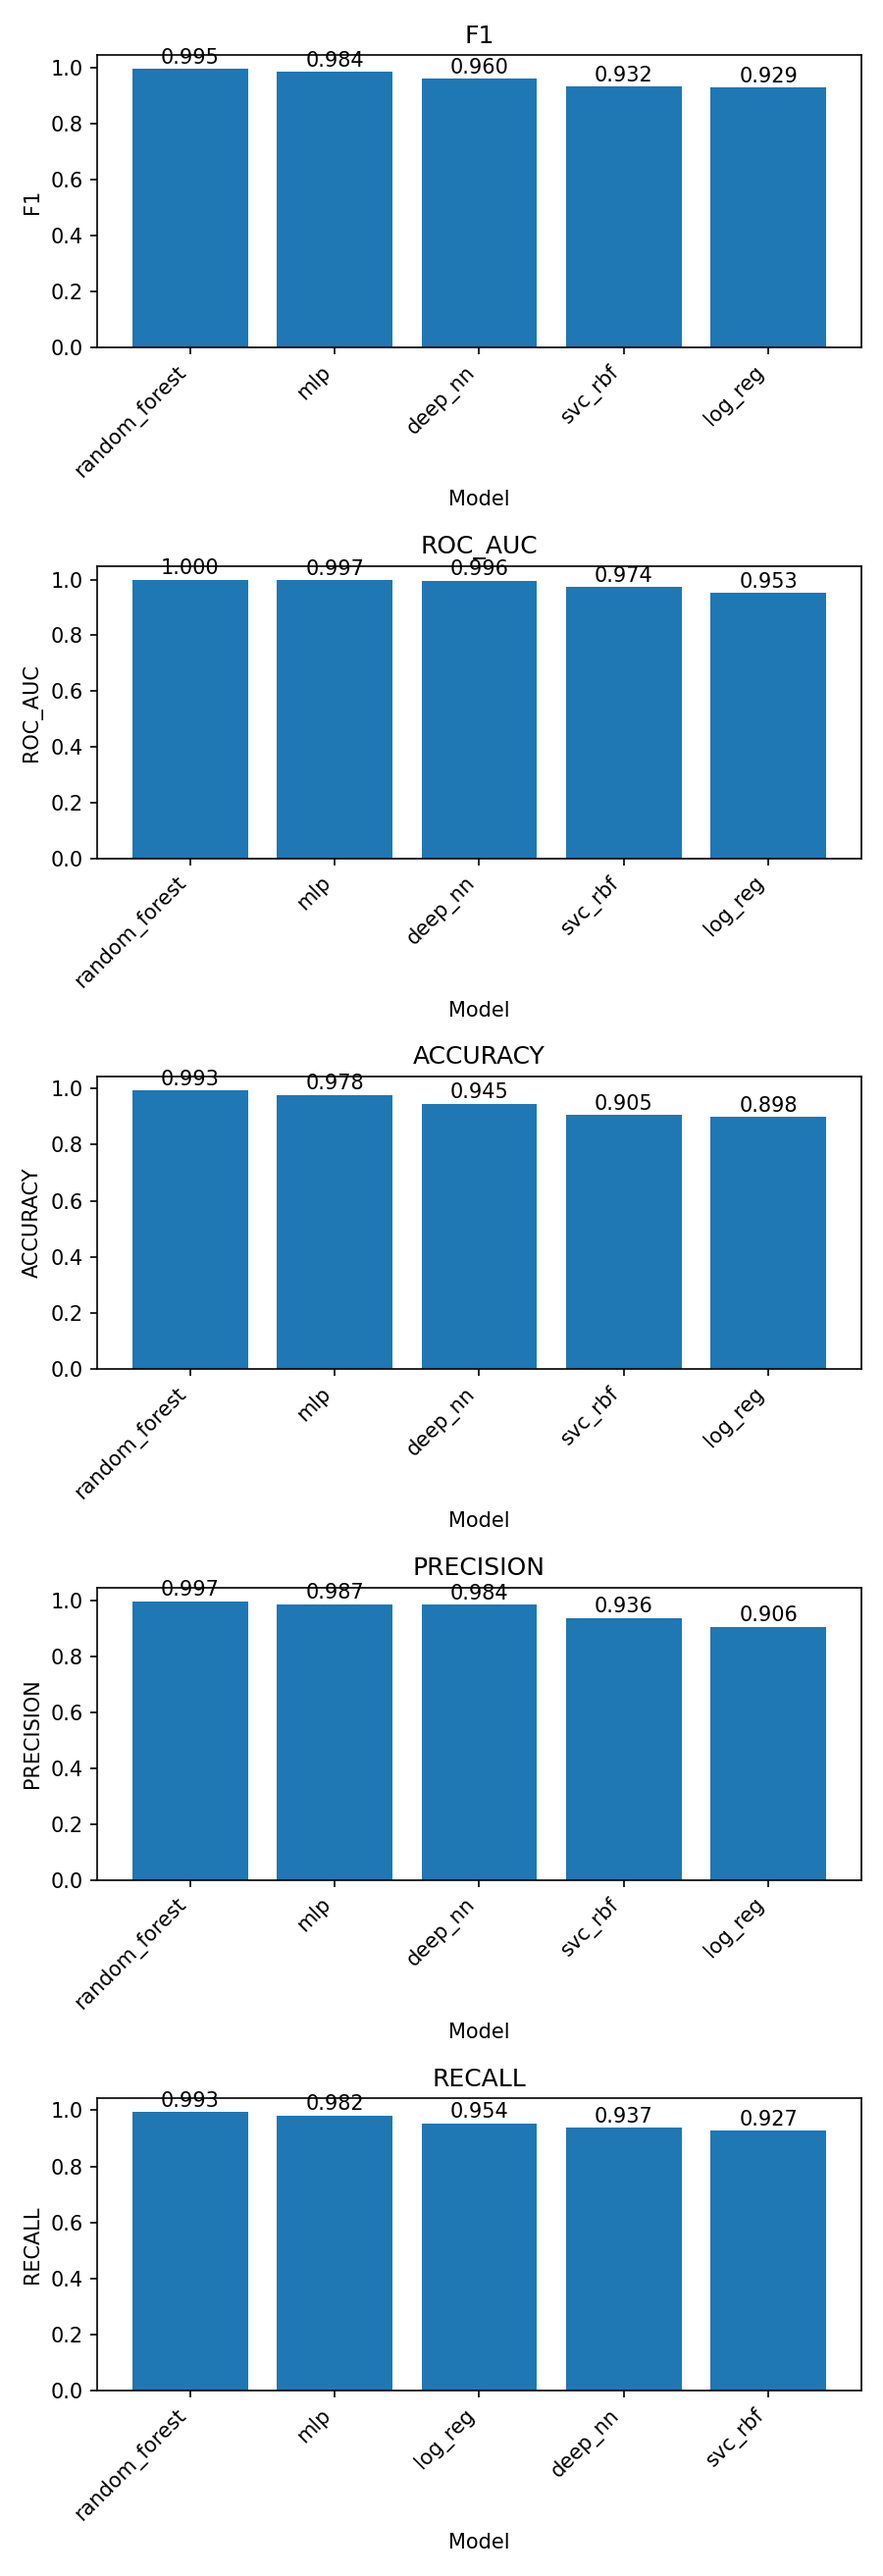
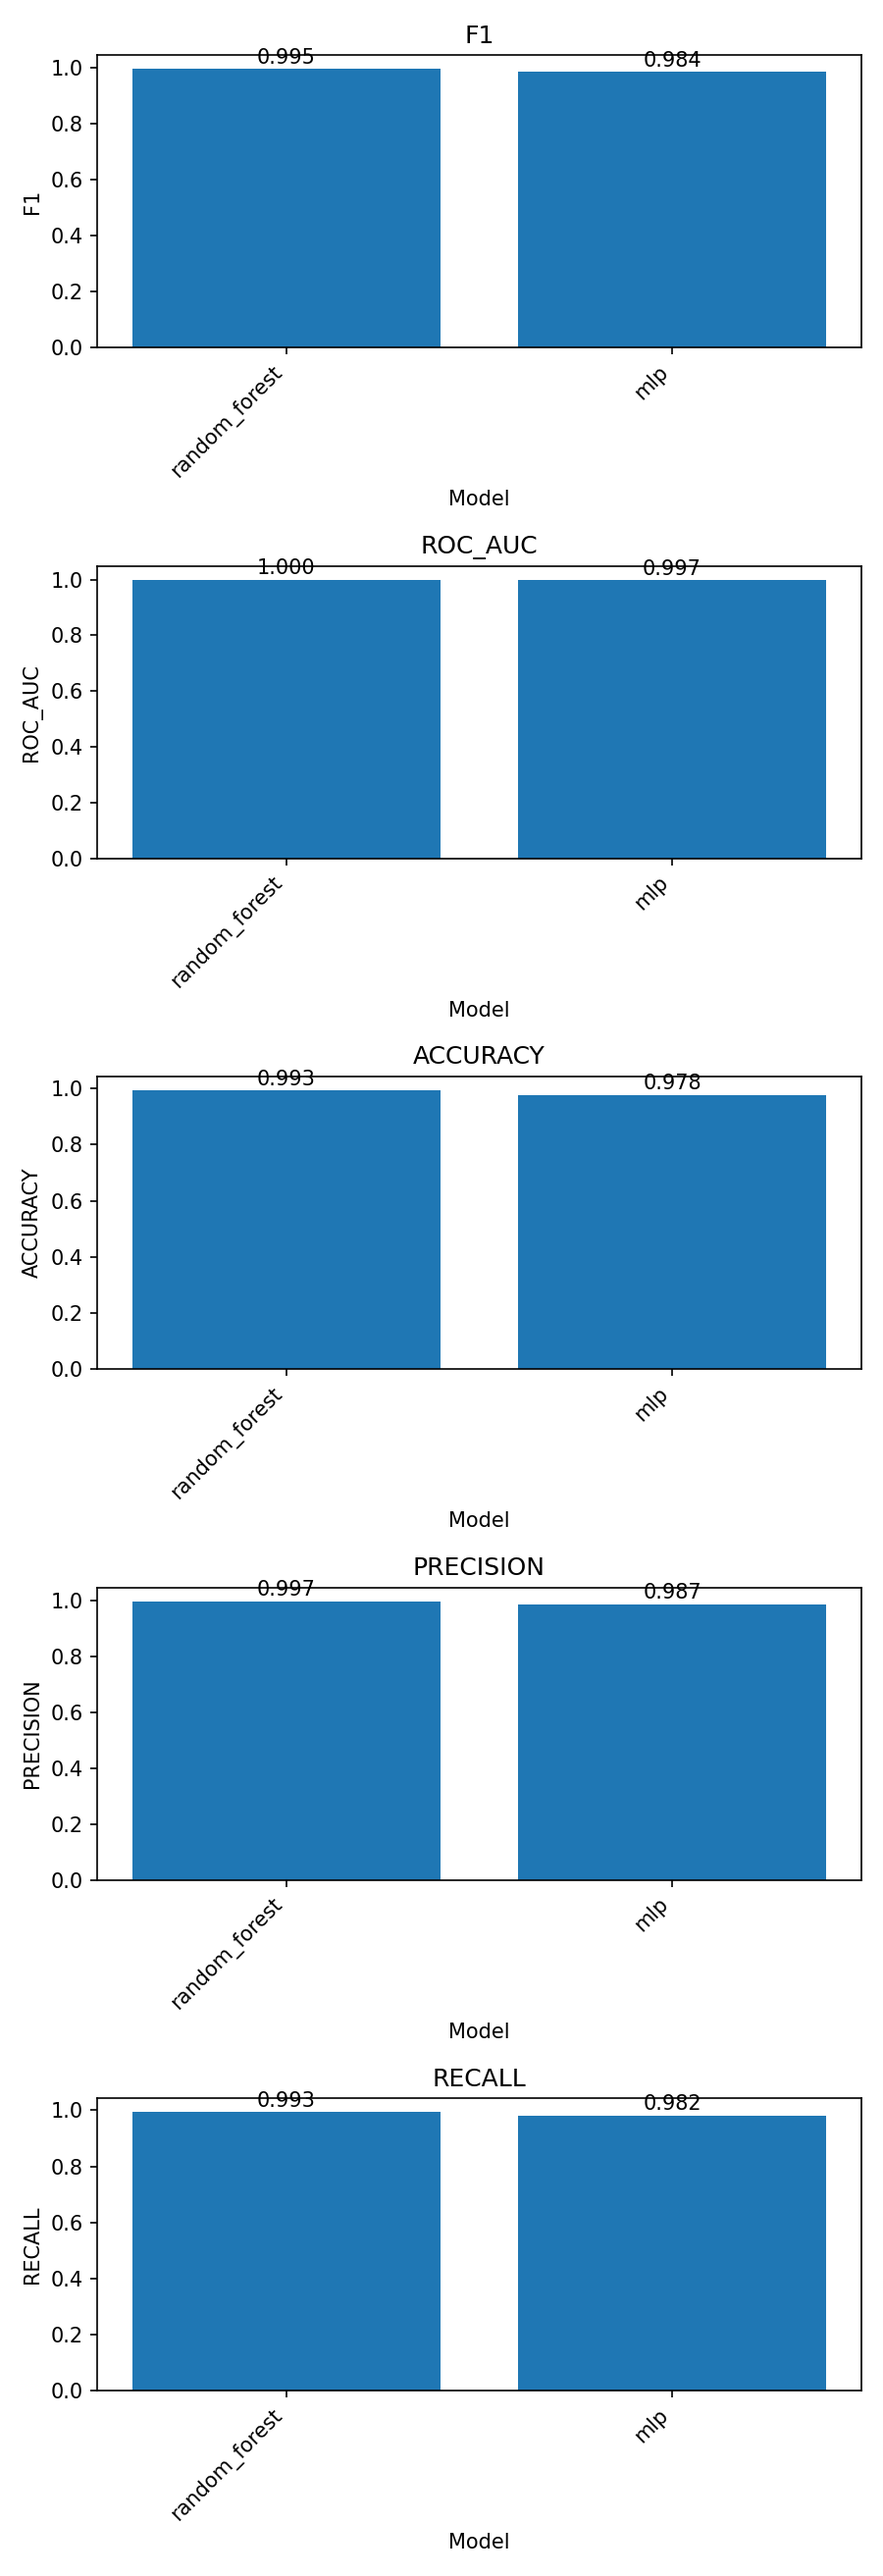
Feat(inference, api): Dev model cache, load and prediction functions. Create api hosting for  backend pipeline. Remove less accurate deep neural network and ML models. Update requirements.txt.

diff --git a/serve.py b/serve.py
@@ -1,0 +1,91 @@
+import os
+from typing import List, Optional
+from fastapi import FastAPI, HTTPException
+from fastapi.middleware.cors import CORSMiddleware
+from pydantic import BaseModel
+from utils.model_io import list_models, load_model
+from config import get_model_dir
+from utils.predict import run_prediction
+
+
+class PredictRequest(BaseModel):
+    model: str
+    instances: List[List[float]]
+    # Example for Swagger UI
+    model_config = {
+        "json_schema_extra": {
+            "examples": [
+                {
+                    "model": "random_forest",
+                    "instances": [
+                        [0,0,0,0,0,0,0,0,0,0,0,0,0,0,0,0,0,0,0,0]
+                    ]
+                }
+            ]
+        }
+    }
+
+
+class PredictResponse(BaseModel):
+    model: str
+    predictions: List[int]
+    probabilities: Optional[List[float]] = None
+
+
+app = FastAPI(title="Model Inference API", version="1.0.0")
+
+# CORS for local dev frontends (React/Next.js)
+app.add_middleware(
+    CORSMiddleware,
+    allow_origins=[
+        "http://localhost:3000",
+        "http://127.0.0.1:3000",
+        "http://localhost:5173",
+        "http://127.0.0.1:5173",
+        "*",
+    ],
+    allow_credentials=True,
+    allow_methods=["*"],
+    allow_headers=["*"],
+)
+
+
+API_PREFIX = "/api/v1"
+
+
+@app.get(f"{API_PREFIX}/health")
+def health():
+    return {"status": "ok"}
+
+
+@app.get(f"{API_PREFIX}/models")
+def get_models():
+    return list_models(out_dir=get_model_dir())
+
+
+@app.post(f"{API_PREFIX}/predict", response_model=PredictResponse)
+def predict(req: PredictRequest):
+    models = list_models(out_dir=get_model_dir())
+    if req.model not in models:
+        raise HTTPException(status_code=404, detail=f"Model '{req.model}' not found")
+    model = load_model(req.model, out_dir=get_model_dir())
+    preds, proba = run_prediction(model, req.instances)
+    return PredictResponse(model=req.model, predictions=preds, probabilities=proba)
+
+
+@app.post(f"{API_PREFIX}/models/{{model_name}}/predict", response_model=PredictResponse)
+def predict_by_path(model_name: str, instances: List[List[float]]):
+    models = list_models(out_dir=get_model_dir())
+    if model_name not in models:
+        raise HTTPException(status_code=404, detail=f"Model '{model_name}' not found")
+    model = load_model(model_name, out_dir=get_model_dir())
+    preds, proba = run_prediction(model, instances)
+    return PredictResponse(model=model_name, predictions=preds, probabilities=proba)
+
+
+if __name__ == "__main__":
+    import uvicorn
+    os.makedirs(get_model_dir(), exist_ok=True)
+    uvicorn.run("serve:app", host="0.0.0.0", port=8000, reload=True)
+
+

diff --git a/utils/model_io.py b/utils/model_io.py
@@ -1,0 +1,34 @@
+import os
+from typing import Dict
+from sklearn.base import BaseEstimator
+from sklearn.ensemble import RandomForestClassifier
+from sklearn.neural_network import MLPClassifier
+import joblib  # type: ignore
+
+def save_models(models: Dict[str, object], out_dir: str = "cache/models") -> None:
+    for name, model in models.items():
+        if isinstance(model, (RandomForestClassifier, MLPClassifier)) or isinstance(model, BaseEstimator):
+            model_path = os.path.join(out_dir, f"{name}.joblib")
+            joblib.dump(model, model_path)
+        else:
+            raise ValueError(f"Unsupported model type for saving: {type(model)}")
+
+
+def load_model(name: str, out_dir: str = "cache/models") -> object:
+    model_path = os.path.join(out_dir, f"{name}.joblib")
+    if os.path.exists(model_path):
+        return joblib.load(model_path)
+    raise FileNotFoundError(f"Model '{name}' not found in {out_dir}")
+
+
+def list_models(out_dir: str = "cache/models") -> Dict[str, str]:
+    if not os.path.exists(out_dir):
+        return {}
+    models: Dict[str, str] = {}
+    for fname in os.listdir(out_dir):
+        if fname.endswith(".joblib"):
+            name = fname[:-7]
+            models[name] = "sklearn"
+    return models
+
+

diff --git a/train.py b/train.py
@@ -1,16 +1,11 @@
 from typing import Dict
 from sklearn.ensemble import RandomForestClassifier
-from sklearn.linear_model import LogisticRegression
-from sklearn.svm import SVC
 from sklearn.neural_network import MLPClassifier
-from models.deep_nn import SimpleNeuralNetwork
 
 
 def train_baseline_models(X_train, y_train) -> Dict[str, object]:
 	models = {
 		'random_forest': RandomForestClassifier(n_estimators=200, random_state=42, n_jobs=-1),
-		'log_reg': LogisticRegression(max_iter=1000),
-		'svc_rbf': SVC(kernel='rbf', probability=True, random_state=42),
 		'mlp': MLPClassifier(
 			hidden_layer_sizes=(100, 100),
 			solver='adam',
@@ -21,13 +16,6 @@ def train_baseline_models(X_train, y_train) -> Dict[str, object]:
 			tol=1e-4,
 			random_state=42
 		),
-		'deep_nn': SimpleNeuralNetwork(
-			hidden_layers=(128, 64, 32),
-			dropout_rate=0.2,
-			epochs=30,
-			batch_size=64,
-			random_state=42
-		)
 	}
 
 	for name, model in models.items():

diff --git a/main.py b/main.py
@@ -5,6 +5,7 @@ from evaluation.calc_eval_metrics import evaluate_models
 from evaluation.create_reports import export_all
 import numpy as np
 import pickle
+from utils.model_io import save_models
 
 DATA_PATH = 'data_prerprocessing/output'
 
@@ -33,8 +34,9 @@ def parse_args():
 
 
 def main():
-    os.makedirs('evaluation_reports', exist_ok=True)
-    
+    for dir in ['cache/models', 'evaluation_reports']:
+        os.makedirs(dir, exist_ok=True)
+        
     args = parse_args()
     X_train, X_test, y_train, y_test = load_dataset(args.data)
     
@@ -42,6 +44,8 @@ def main():
     # _ = load_feature_metadata(args.features)
     
     models = train_baseline_models(X_train, y_train)
+    # Save trained models for later inference
+    save_models(models, out_dir='cache/models')
     
     results = evaluate_models(models, X_test, y_test)
     for name, metrics in results.items():

diff --git a/utils/predict.py b/utils/predict.py
@@ -1,0 +1,17 @@
+from typing import List, Optional, Tuple
+import numpy as np
+
+
+def run_prediction(model, instances: List[List[float]]) -> Tuple[List[int], Optional[List[float]]]:
+	X = np.array(instances, dtype=float)
+	preds = model.predict(X).tolist()
+	proba = None
+	if hasattr(model, 'predict_proba'):
+		proba_vals = model.predict_proba(X)
+		if isinstance(proba_vals, np.ndarray) and proba_vals.ndim == 2 and proba_vals.shape[1] >= 2:
+			proba = proba_vals[:, 1].tolist()
+		elif isinstance(proba_vals, np.ndarray) and proba_vals.ndim == 1:
+			proba = proba_vals.tolist()
+	return preds, proba
+
+

diff --git a/config.py b/config.py
@@ -1,0 +1,7 @@
+import os
+
+
+def get_model_dir() -> str:
+	return os.getenv('MODEL_DIR', 'cache/models')
+
+
